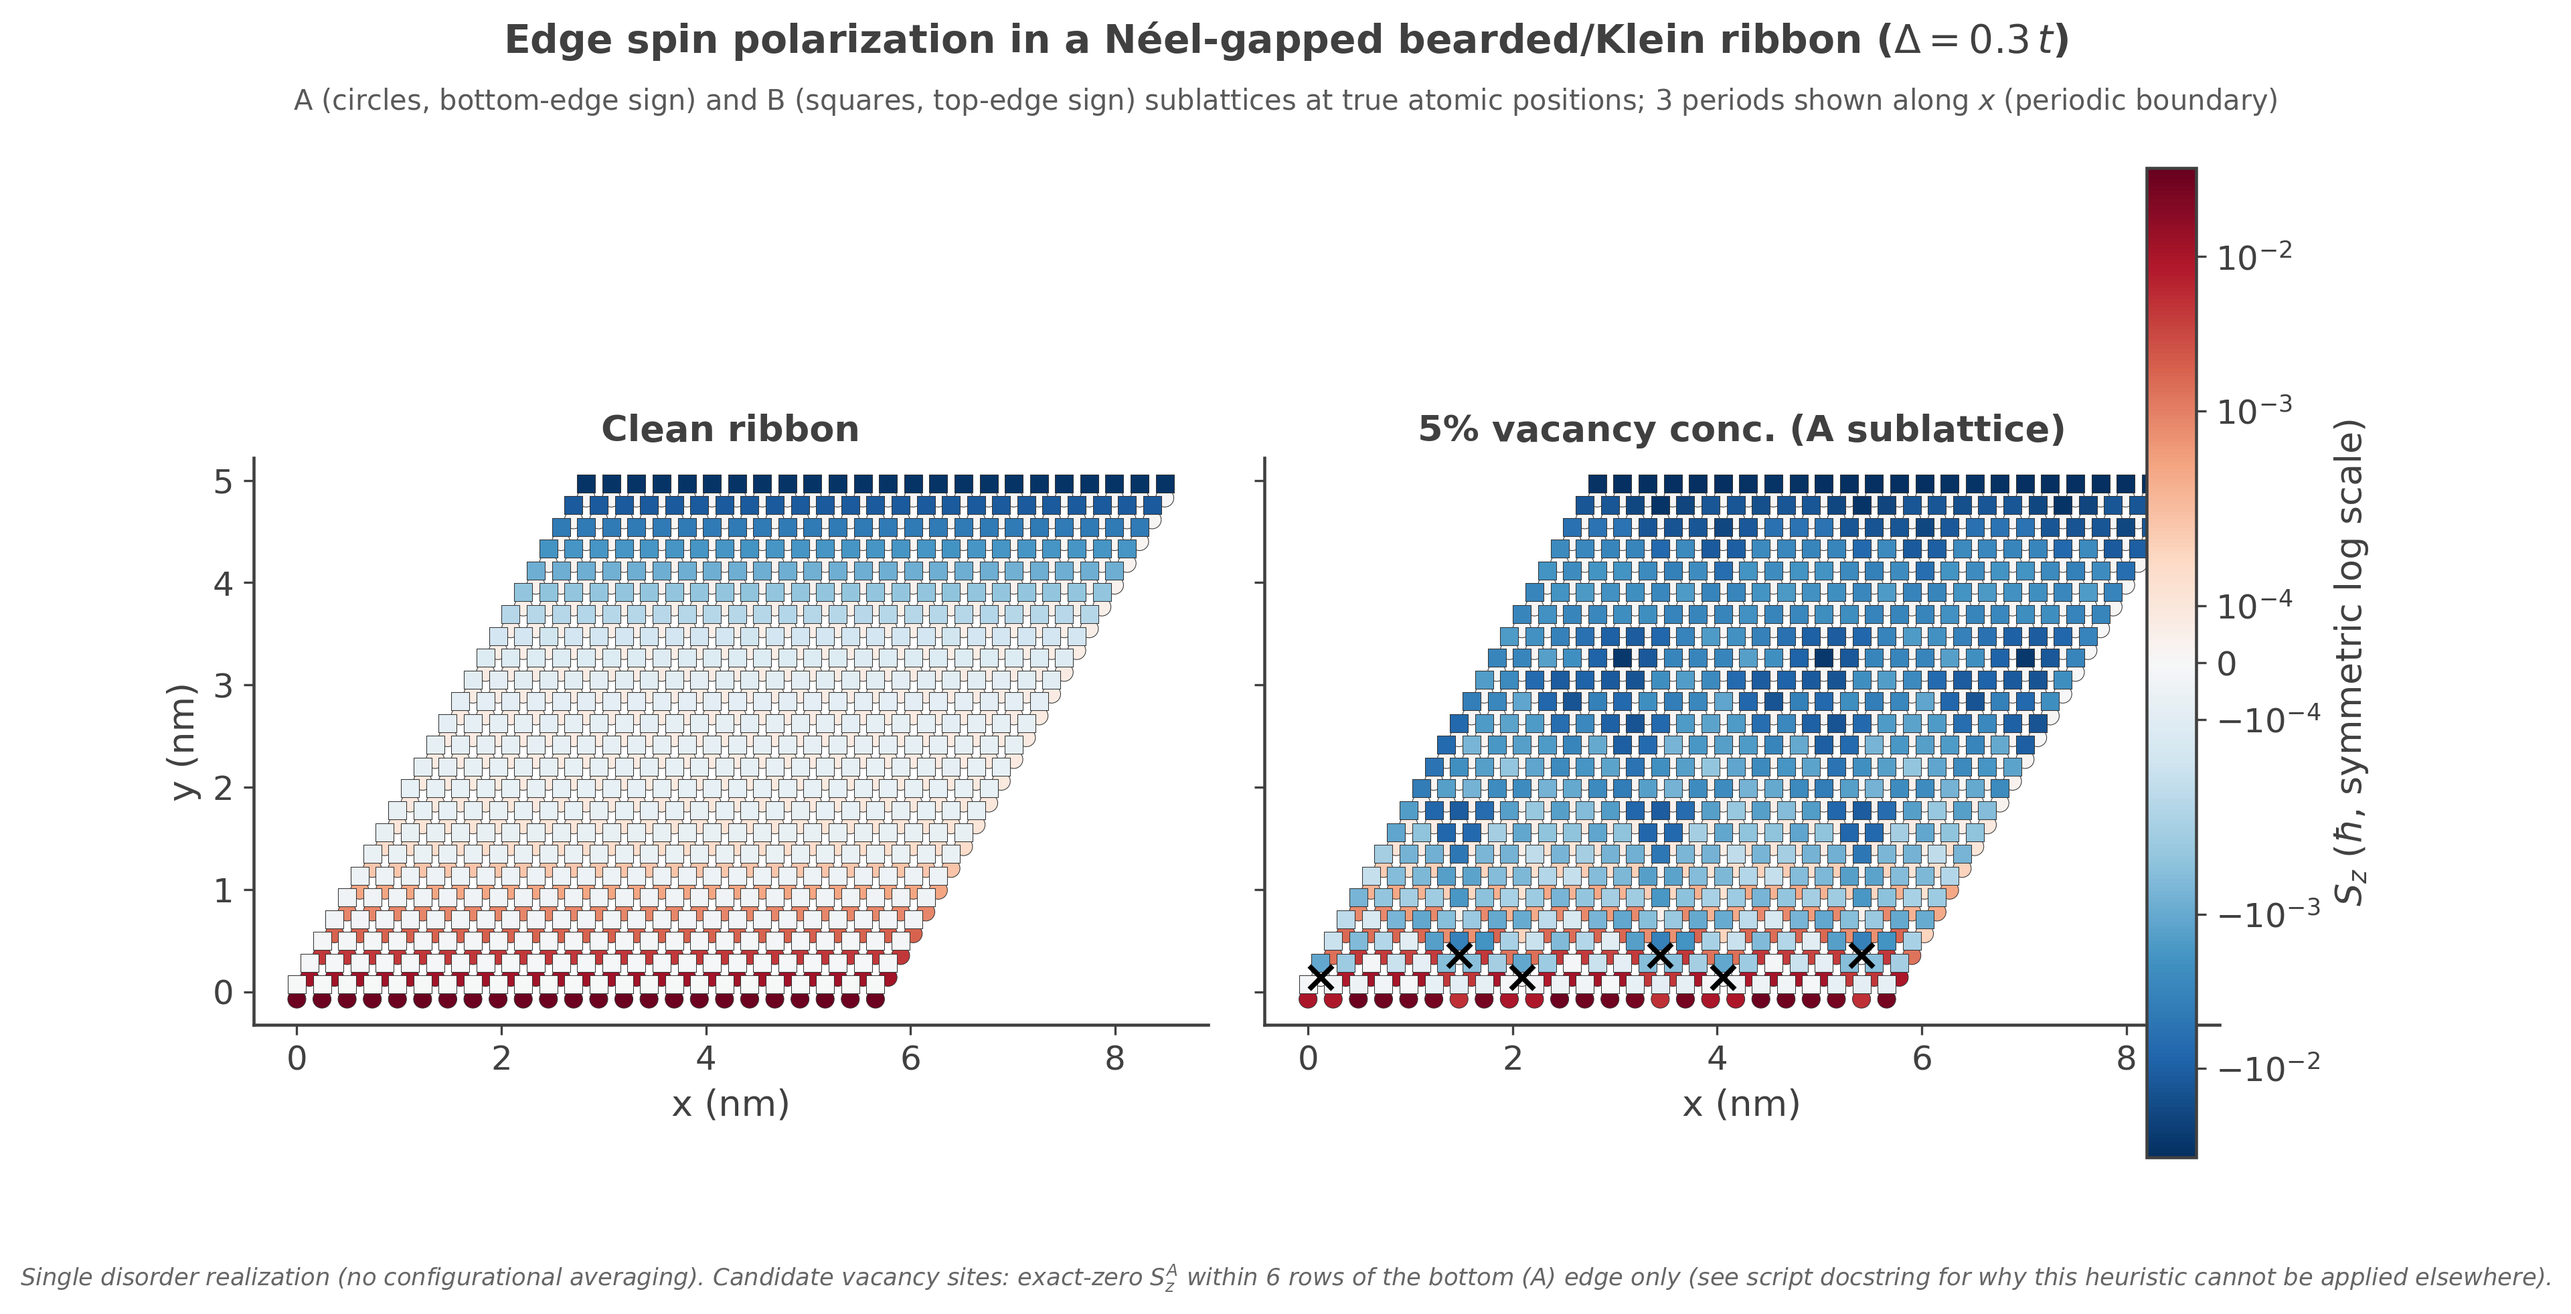
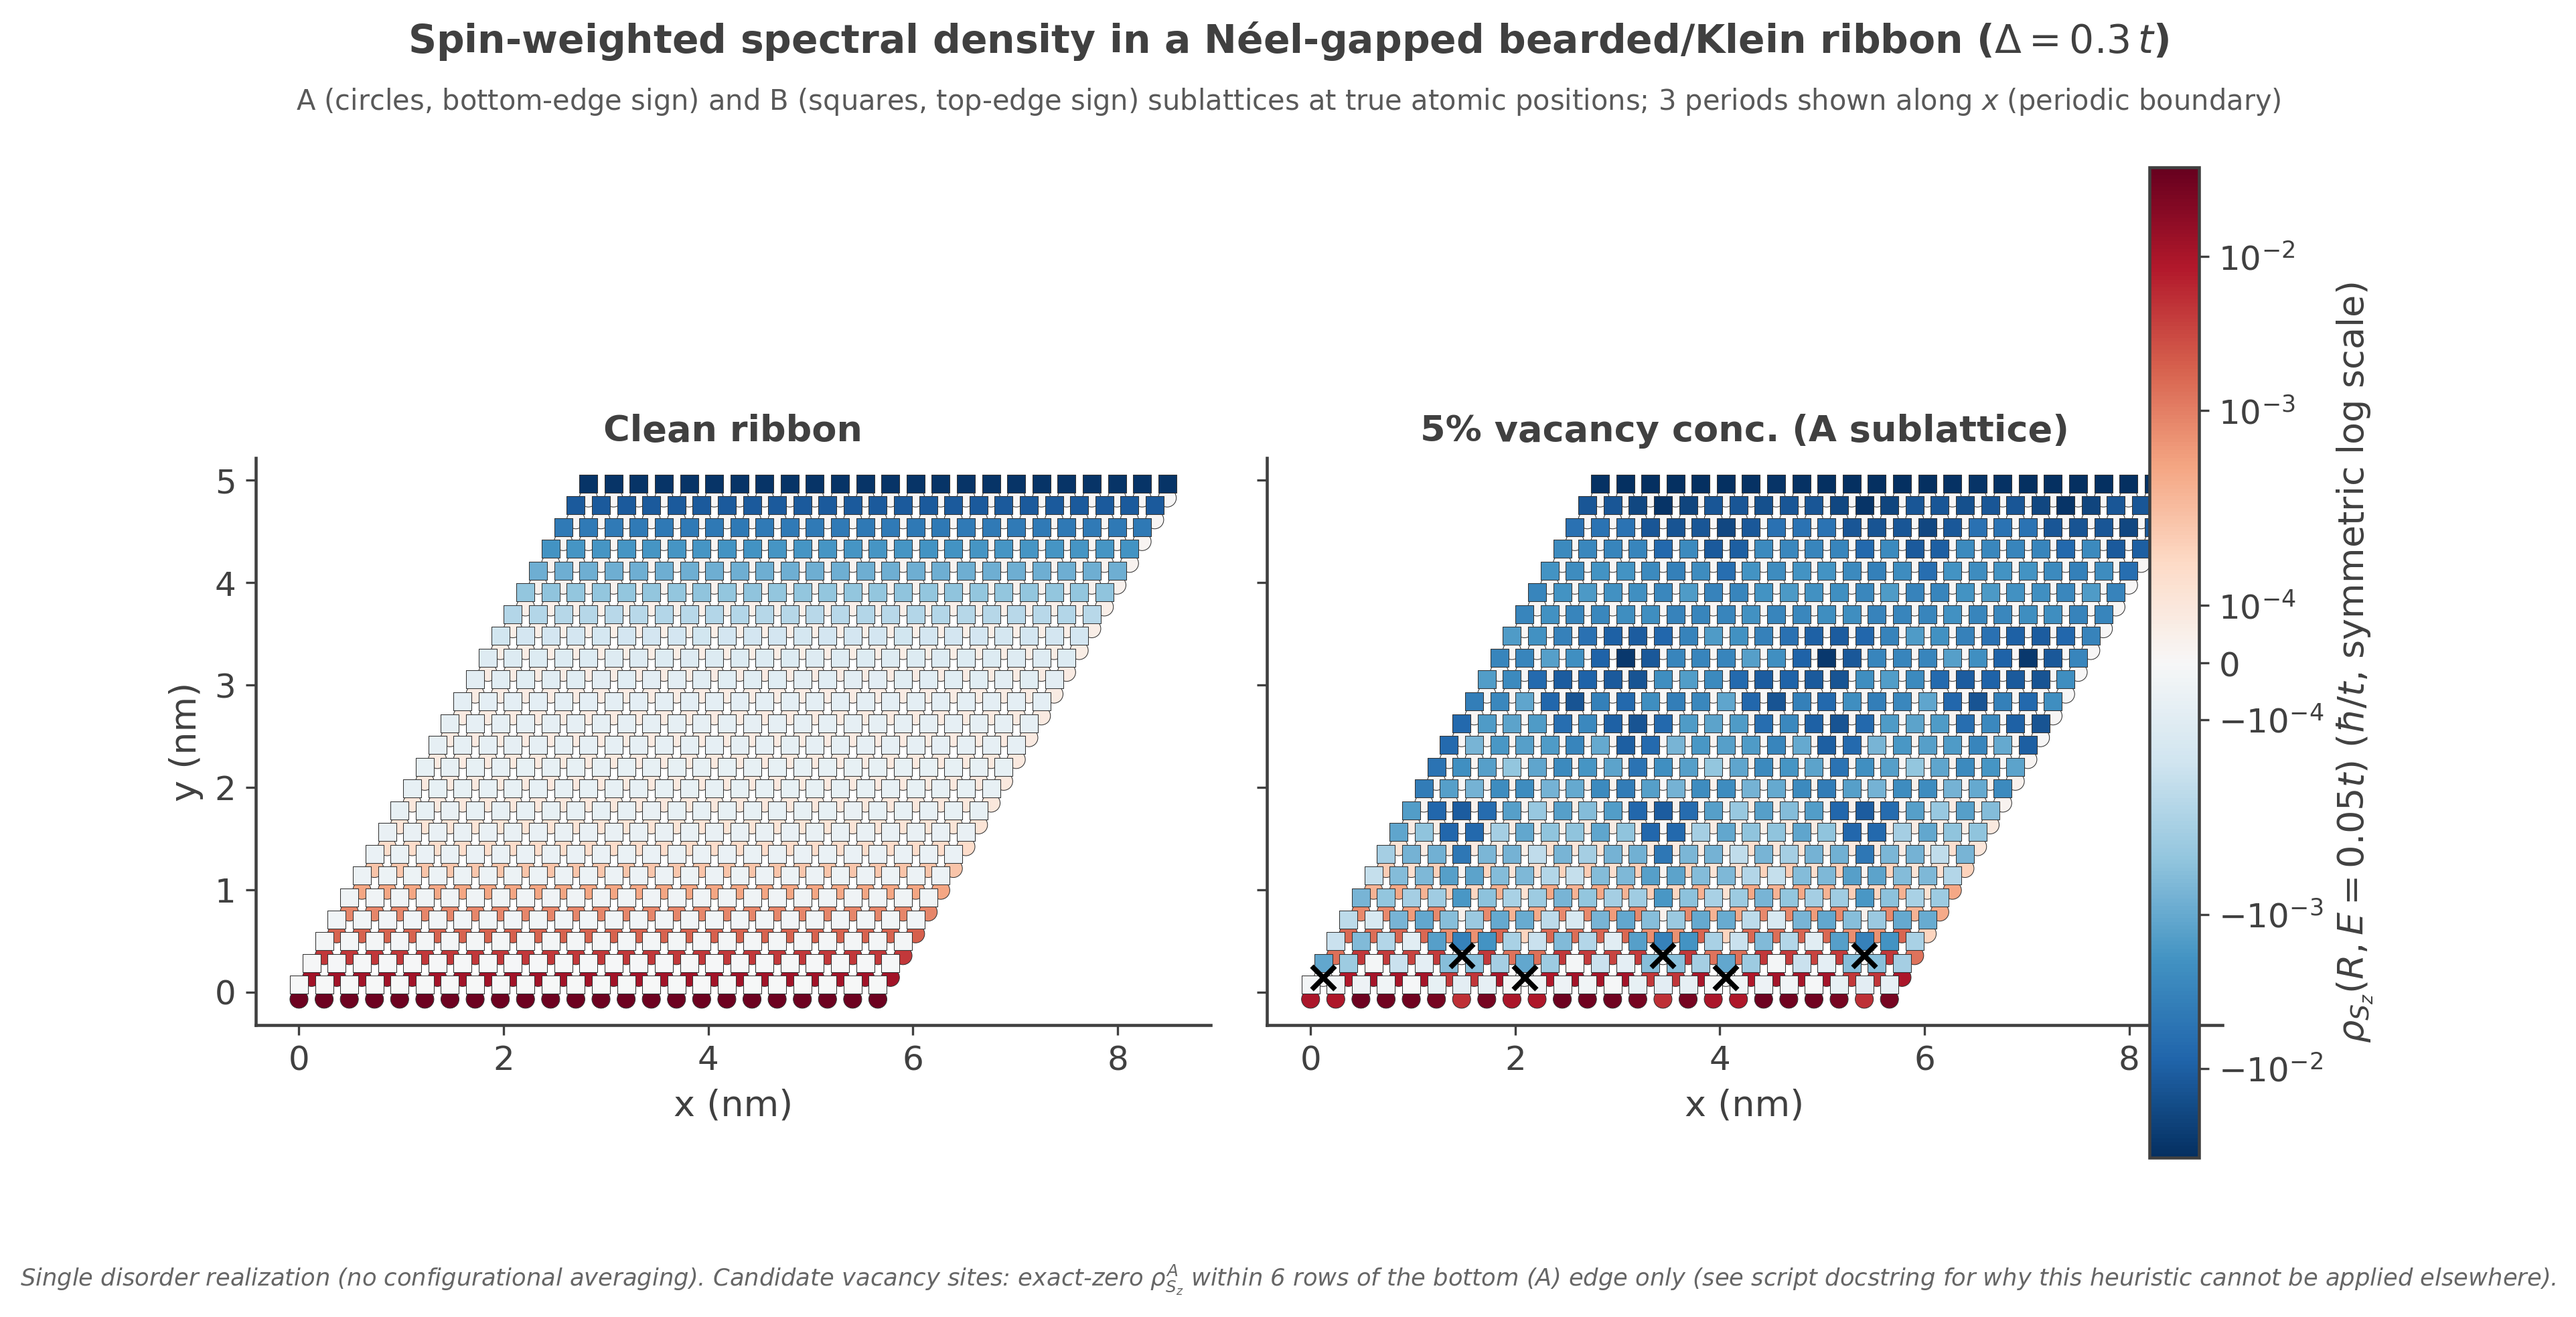
Label AFM figures by the quantity actually plotted, not spin density
The real-space map plots rho_Sz(R,E) -- an energy-resolved,
operator-weighted spectral density at a fixed E -- but the figure
itself still said "edge spin polarization", labeled the colorbar Sz in
units of hbar, and used that same notation in the vacancy-candidate
caption text. Fixed the title, colorbar label (rho_Sz(R,E=0.05t),
hbar/t), and caption across afm_zigzag_ribbon_process.py and the doc
page; figure regenerated.

The band plot's in-panel annotation still said the finite-width edge
branch sits exactly at E=+/-Delta, while the (already-corrected)
prose says this only holds at k=0 and the well-localized part of the
zone. Changed to E~=+/-Delta; figure regenerated. Also fixed a
dispersionless/curvature inconsistency in the same docstring
("near-flat ... over their localized momentum interval" throughout).

Compressed the off-resonance rationale, previously repeated
near-verbatim in the script docstring and doc page with review-process
phrasing ("deliberate choice, not an oversight", "checked directly",
"strictly local effect" -- the last also an overclaim, since a
broadened response need not be strictly local). The script now has one
short paragraph pointing to the doc page; the doc page states plainly
that E=Delta is both the ideal edge-state energy and the bulk band
edge, so a Gaussian window there also overlaps bulk states.

Also fixes a capitalization typo introduced by an earlier
de-capitalization pass ("The Plotted curves" -> "The plotted curves")
[…]

diff --git a/examples/afm_zigzag_ribbon.py b/examples/afm_zigzag_ribbon.py
@@ -16,19 +16,14 @@
     sublattice/spin at one edge, yet globally spin-up DOS == spin-down DOS by
     symmetry between the two edges). This script computes the corresponding
     local, real-space-resolved probe: calculation.ldos_map(operators=['l0','l1'])
-    maps Sz_A(r), Sz_B(r) separately (see register_sz_operators()) at the
-    default energy E=0.05t, sigma=0.1t -- a Gaussian-broadened tail below the
-    edge-band resonance at E=Delta=0.3t, not the resonance itself. This is a
-    deliberate choice, not an oversight: evaluated directly at E=Delta, the
-    single vacancy-disorder realization's response is no longer a small,
-    edge-localized disturbance on top of the clean pattern -- it becomes
-    substantially larger and spreads well into the ribbon interior (checked
-    directly: row-averaged |Sz_B| at on-resonance energy grows by roughly an
-    order of magnitude through the bulk relative to the clean case, not just
-    near the defect), because part of the zone has additional bands close to
-    E=Delta that vacancies scatter into more easily there. The off-resonance
-    default keeps the clean-vs-vacancy comparison legible as a strictly local
-    effect; it trades some overall signal strength for that stability. For:
+    maps Sz_A(r), Sz_B(r) separately (see register_sz_operators()).
+
+    Energy: the default E=0.05t probes broadened in-gap spectral weight,
+    below the edge-band energy E=Delta=0.3t rather than on it. At E=Delta,
+    the Gaussian window also overlaps bulk states near the band edge, making
+    a single-disorder-realization comparison less visually selective -- see
+    the in-depth write-up (docs/documentation/examples/afm_zigzag_ribbon.md)
+    for the full derivation. For:
       - a clean ribbon (edge polarization visible, cancels in the global
         DOS but not site-by-site);
       - the same ribbon with a low (~5%) concentration of real vacancies

diff --git a/examples/afm_zigzag_ribbon_process.py b/examples/afm_zigzag_ribbon_process.py
@@ -158,9 +158,9 @@ def plot_ribbon_comparison(clean_path, vac_path, lx=8, ly=24, n_tile=3,
     ax_clean.set_ylabel("y (nm)")
     cbar = fig.colorbar(sm, ax=[ax_clean, ax_vac], fraction=0.035, pad=0.03,
                          location="right")
-    cbar.set_label(r"$S_z$ ($\hbar$, symmetric log scale)")
+    cbar.set_label(r"$\rho_{S_z}(R,E{=}0.05t)$ ($\hbar/t$, symmetric log scale)")
 
-    fig.suptitle(r"Edge spin polarization in a Néel-gapped bearded/Klein ribbon ($\Delta = 0.3\,t$)",
+    fig.suptitle(r"Spin-weighted spectral density in a Néel-gapped bearded/Klein ribbon ($\Delta = 0.3\,t$)",
                  fontsize=14, fontweight="bold", y=0.995)
     fig.text(0.5, 0.925,
               "A (circles, bottom-edge sign) and B (squares, top-edge sign) sublattices at true "
@@ -168,7 +168,7 @@ def plot_ribbon_comparison(clean_path, vac_path, lx=8, ly=24, n_tile=3,
               ha="center", fontsize=10, color="0.35")
     fig.text(0.5, 0.01,
               "Single disorder realization (no configurational averaging). Candidate vacancy "
-              r"sites: exact-zero $S_z^A$ within 6 rows of the bottom (A) edge only "
+              r"sites: exact-zero $\rho_{S_z}^A$ within 6 rows of the bottom (A) edge only "
               "(see script docstring for why this heuristic cannot be applied elsewhere).",
               ha="center", fontsize=8.5, color="0.4", style="italic")
     fig.tight_layout(rect=[0.0, 0.03, 0.92, 0.90])

diff --git a/examples/afm_zigzag_bands.py b/examples/afm_zigzag_bands.py
@@ -31,8 +31,9 @@
     termination, not an ordinary zigzag edge, despite both sublattices still
     forming an otherwise-honeycomb bulk.
 
-    That termination still supports two dispersionless (flat) edge bands,
-    each localized on one sublattice at one edge: the bottom edge (row y=0,
+    That termination still supports two near-flat edge bands, over their
+    localized momentum interval, each localized on one sublattice at one
+    edge: the bottom edge (row y=0,
     coordination-1 A atoms) hosts a state that is purely sublattice A, and at
     E=+Delta that same edge is additionally purely spin-up (verified by
     direct diagonalization). The top edge (coordination-1 B atoms) is the
@@ -181,7 +182,7 @@ def main(ly=24, delta=DELTA, n_kx=400,
     ax_ribbon.axhline(0, color="0.6", lw=0.6, zorder=0)
     ax_ribbon.axhline(+delta, color="0.2", lw=0.9, ls=":", zorder=1)
     ax_ribbon.axhline(-delta, color="0.2", lw=0.9, ls=":", zorder=1)
-    ax_ribbon.annotate(r"edge bands, $E=\pm\Delta$",
+    ax_ribbon.annotate(r"edge bands, $E\simeq\pm\Delta$",
                         xy=(2.6, delta), xytext=(0.3, 0.92), textcoords="axes fraction",
                         fontsize=10, ha="left", va="top",
                         arrowprops=dict(arrowstyle="-", color="0.3", lw=0.8,

diff --git a/examples/afm_zigzag_dos.py b/examples/afm_zigzag_dos.py
@@ -22,11 +22,11 @@
     spin-polarized -- see the companion real-space figure -- but related to
     each other by an exact A<->B, up<->down symmetry of the clean
     Hamiltonian, so their contributions cancel in the *global* trace). The
-    Plotted curves are each a finite stochastic (num_random/num_disorder)
+    plotted curves are each a finite stochastic (num_random/num_disorder)
     estimate of that quantity, so they agree within stochastic uncertainty,
     not bit-for-bit -- do not read a small residual gap between the two
     clean-case curves as evidence against the exact symmetry. Vacancies
-    break that exact cancellation for real (they are only introduced on the
+    break that exact cancellation (they are only introduced on the
     A sublattice here -- see afm_zigzag_ribbon.py's register/main), so the
     disordered ribbon's spin-up and spin-down DOS are expected to visibly
     split, especially near the edge-band energy E=+/-Delta, by an amount

diff --git a/docs/documentation/examples/afm_zigzag_ribbon.md b/docs/documentation/examples/afm_zigzag_ribbon.md
@@ -97,21 +97,17 @@ pattern:
 
 <figure>
     <img src="../../../assets/images/custom_vertex_operators/afm_zigzag_ribbon.png" style="width: 40em;" />
-    <figcaption>Sz_A (circles) and Sz_B (squares) at every site, clean (left) vs. 5% vacancy
-    concentration (right). Signed, symmetric-log color scale shared across both panels. Note this
-    is an energy-resolved, operator-weighted local spectral density at a fixed E, not an
-    equilibrium spin density (which would need occupation weighting and integration over
-    energy).</figcaption>
+    <figcaption>The spin-weighted spectral density $\rho_{S_z}(R,E{=}0.05t)$ (circles: sublattice
+    A; squares: sublattice B) at every site, clean (left) vs. 5% vacancy concentration (right).
+    Signed, symmetric-log color scale shared across both panels — not an equilibrium spin density,
+    which would need occupation weighting and integration over energy.</figcaption>
 </figure>
 
-The default `energy=0.05`, `sigma=0.1` deliberately probes a broadened tail *below* the edge-band
-energy $\Delta=0.3$, not the resonance itself: evaluated directly at $E=\Delta$, a single
-vacancy-disorder realization's response stops being a small, edge-localized disturbance and
-instead grows substantially through the ribbon interior, because part of the Brillouin zone has
-additional bands close to $\Delta$ that vacancies scatter into more easily there. The off-resonance
-default keeps the clean-vs-vacancy comparison legible as a strictly local effect, at the cost of
-weaker overall signal — see `afm_zigzag_ribbon.py`'s docstring for the numerical check behind this
-choice.
+The default `energy=0.05`, `sigma=0.1` probes broadened in-gap spectral weight, below the edge-band
+energy $\Delta=0.3$ rather than on it. $E=\Delta$ is both the ideal edge-state energy *and* the bulk
+band edge (the bulk gap closes at exactly $|E|=\Delta$ in this model) — so a Gaussian window
+centered there also overlaps bulk states, making a single-disorder-realization comparison less
+visually selective.
 
 ### Mapping the global spin balance: `custom_one()` with spin projectors
 
